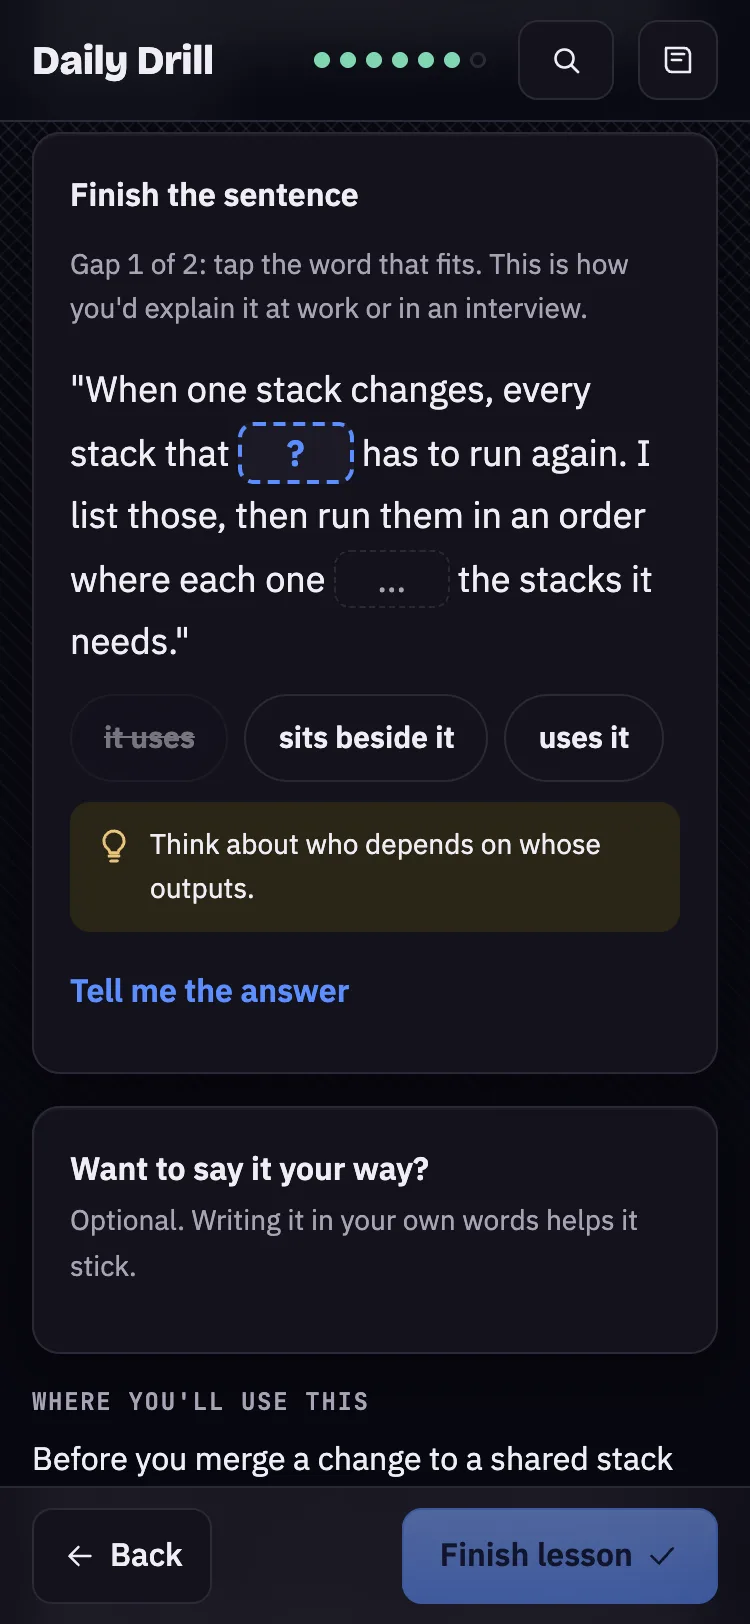
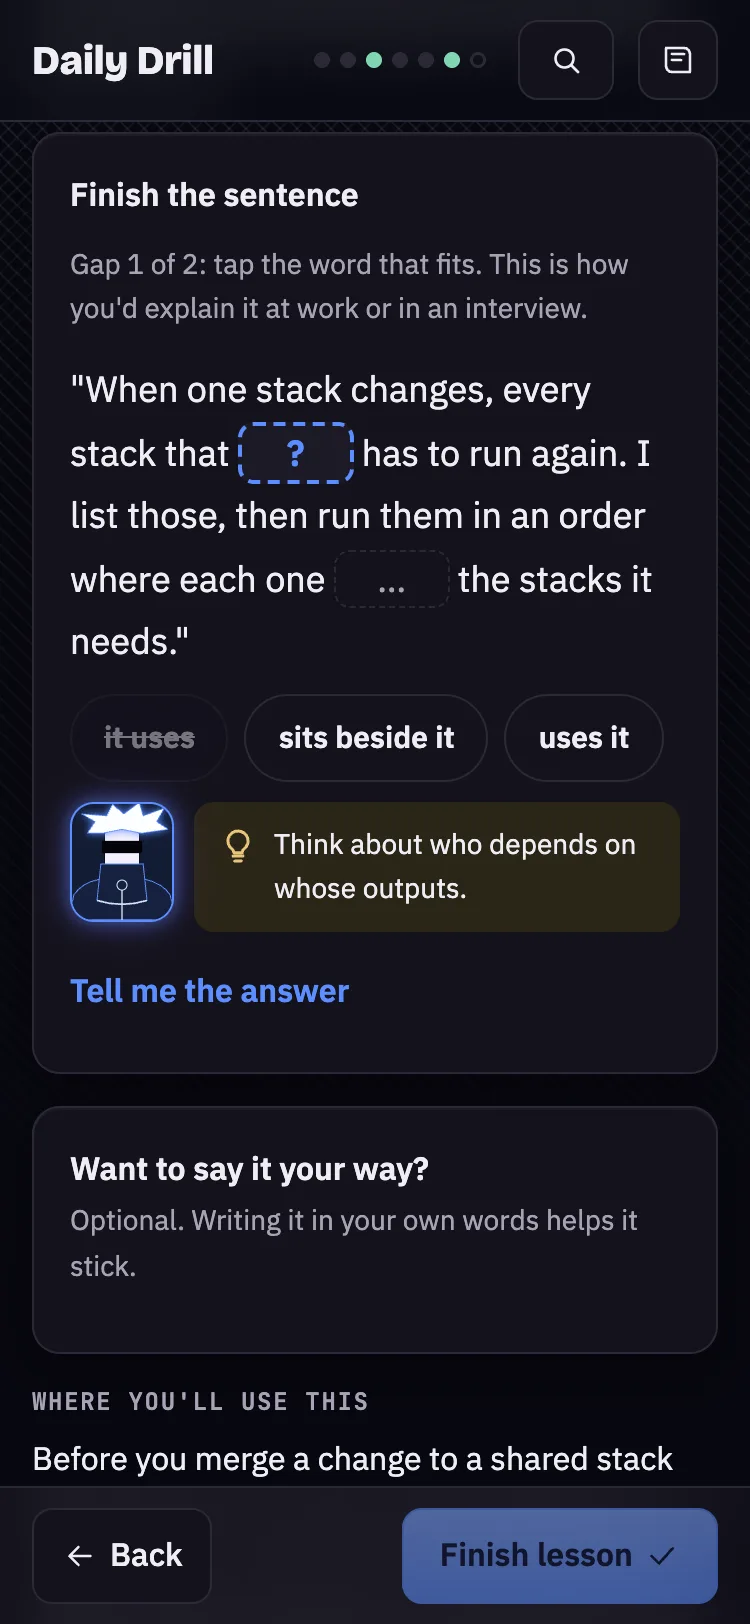
Hero beside the help, and the drift stack on the Platform track
The hero's close-up portrait sits beside the clue, verdict and answer boxes in
Check, Explain and Practice: blindfolded for a clue or a verdict, and for the
answer the blindfold is gone and his blue eyes glow. The words beside him stay
the lesson's own. The done screen shows him in full, in the phase's stance.

The Platform track gets its own spirit, the drift stack: three crooked boxes
like workspaces that no longer match their config, with loose cables for arms.
It weakens like the phase spirit (nine eyes, cracks, shards when finished).

Claude-Session: https://claude.ai/code/session_01FdRbmp2MgCHtQWVRmcySjV

Changed region(s): [[0.0613, 0.4618, 0.7973, 0.585], [0.5213, 0.0308, 0.5827, 0.0616], [0.4293, 0.0308, 0.4907, 0.0616]]

diff --git a/src/drill/content/page/horizon.js b/src/drill/content/page/horizon.js
@@ -93,7 +93,7 @@ function hzCurse(i, hp) {
 //   4 Ship      the hand thrust forward, the spiral released as a beam
 //   5 Monitor   standing easy, a quiet ring of protection round him
 // Everything he gives off grows with `power` (the share of lessons done); tapping the banner fires the flame.
-function hzSorcerer(x, g, tx, ty, power, pose = 2) {
+function hzSorcerer(x, g, tx, ty, power, pose = 2, unveiled = false) {
   const S = .82, X = v => (x + v * S).toFixed(1), Y = v => (g + v * S).toFixed(1), Z = v => (v * S).toFixed(1);
   const P = pts => "M" + pts.map(([a, b]) => `${X(a)},${Y(b)}`).join(" L") + "Z";
   const F = [15, 14, 15, 15, 19, 8][pose];
@@ -104,6 +104,9 @@ function hzSorcerer(x, g, tx, ty, power, pose = 2) {
   const head = `<ellipse class="skin" cx="${X(0)}" cy="${Y(-49.5)}" rx="${Z(3.8)}" ry="${Z(4.4)}"/>`
     + `<path class="smile" d="M${X(-1.4)},${Y(-46.6)} q${Z(1.4)},${Z(1.1)} ${Z(2.8)},${Z(-.2)}"/>`;
   const band = `<path class="band" d="${P([[-4.3, -52.6], [4.3, -52.6], [4.1, -48.8], [-4.1, -48.8]])}"/>`;
+  // with the blindfold pushed up: two blue eyes (h-eye, never "eye", which is the spirit's)
+  const bandUp = `<path class="band up" d="${P([[-4.6, -57.4], [4.4, -56.2], [4.4, -53.8], [-4.6, -55]])}"/>`;
+  const eyesOpen = [-1.7, 1.8].map(a => `<g class="h-eyes"><path class="h-eye" d="M${X(a - 1.45)},${Y(-50.5)} q${Z(1.45)},${Z(-1.5)} ${Z(2.9)},0 q${Z(-1.45)},${Z(1.3)} ${Z(-2.9)},0Z"/><circle class="h-iris" cx="${X(a)}" cy="${Y(-50.6)}" r="${Z(.82)}"/><circle class="h-glint" cx="${X(a - .3)}" cy="${Y(-50.95)}" r="${Z(.24)}"/></g>`).join("");
   const hair = `<path class="hair" d="${P([[-4.2, -52.4], [-6.8, -54.4], [-4.4, -55], [-7, -58], [-3.4, -57.2], [-3.8, -60.6], [-1, -58.2], [.4, -61.6], [1.6, -58.2], [4.2, -60.4], [3.8, -57], [7.2, -57.8], [4.8, -54.8], [7, -54], [4.2, -52.4]])}"/>`;
   const arm = pts => `<path class="sleeve" d="M${pts.map(([a, b]) => `${X(a)},${Y(b)}`).join(" L")}"/>`;
   const fist = (a, b, r = 1.8) => `<circle class="skin" cx="${X(a)}" cy="${Y(b)}" r="${Z(r)}"/>`;
@@ -141,7 +144,7 @@ function hzSorcerer(x, g, tx, ty, power, pose = 2) {
   const sparks = SP.slice(0, 4 + Math.round(6 * power)).map(([a, b], k) =>
     `<path class="spark${k % 3 ? "" : " v"}" d="M${X(a)},${Y(b - 1.4)} l${Z(.5)},${Z(1.4)} l${Z(-.5)},${Z(1.4)} l${Z(-.5)},${Z(-1.4)}Z" style="--d:${(k * .29).toFixed(2)}s"/>`).join("");
   const beam = `<path class="h-beam" d="M${hx},${hy} L${tx},${ty}"/>`;
-  return `<g class="hero" data-pose="${pose}">${orb}<g class="h-aura" opacity="${(.4 + .6 * power).toFixed(2)}">${tech}</g>${legs}${coat}${POSE[0]}${collar}${head}${band}${hair}<g class="h-aura" opacity="${(.5 + .5 * power).toFixed(2)}">${sparks}</g>${beam}</g>`;
+  return `<g class="hero" data-pose="${pose}">${orb}<g class="h-aura" opacity="${(.4 + .6 * power).toFixed(2)}">${tech}</g>${legs}${coat}${POSE[0]}${collar}${head}${unveiled ? eyesOpen : band}${hair}${unveiled ? bandUp : ""}<g class="h-aura" opacity="${(.5 + .5 * power).toFixed(2)}">${sparks}</g>${beam}</g>`;
 }
 const HZ_HERO_X = 30;
 const hzGround = (i, x) => { const a = HZ[i].a, k = Math.min(7, Math.floor(x / 50)), f = (x - k * 50) / 50; return a[k] + (a[k + 1] - a[k]) * f; };
@@ -163,9 +166,28 @@ function hzTrackScene(svg, hp) {
 }
 const HZ_TRACK_ENERGY = `<path class="st" d="M190 66 H226 V88 H262"/><path class="st hi" d="M226 66 V50 H270"/>` + hzEmb([[170, 50], [226, 60], [268, 80]]);
 const HZ_TRACK_AT = [320, 96, .5];
+// The track's own spirit, the drift stack: three crooked boxes piled up, like workspaces that no longer match
+// their config, with loose cables for arms. Same contract as hzSpirit: nine eyes that close as `hp` falls,
+// cracks below 80% and 45%.
+function hzDriftStack(cx, base, sc, hp) {
+  const S = v => (v * sc).toFixed(1), X = v => (cx + v * sc).toFixed(1), Y = v => (base + v * sc).toFixed(1);
+  const box = (x, y, w, h) => `<path class="body" d="M${X(x + 5)},${Y(y)} H${X(x + w - 5)} Q${X(x + w)},${Y(y)} ${X(x + w)},${Y(y + 5)} V${Y(y + h)} H${X(x)} V${Y(y + 5)} Q${X(x)},${Y(y)} ${X(x + 5)},${Y(y)}Z"/>`;
+  const body = box(-34, -22, 62, 22) + box(-24, -44, 56, 23) + box(-30, -64, 46, 21);
+  const arms = `<path class="limb" d="M${X(-34)},${Y(-14)} C${X(-50)},${Y(-22)} ${X(-46)},${Y(2)} ${X(-60)},${Y(-2)} M${X(32)},${Y(-36)} C${X(48)},${Y(-44)} ${X(52)},${Y(-14)} ${X(64)},${Y(-8)}"/><rect class="limb" x="${X(-66)}" y="${Y(-5)}" width="${S(6)}" height="${S(5)}"/><rect class="limb" x="${X(63)}" y="${Y(-11)}" width="${S(6)}" height="${S(5)}"/>`;
+  const mouth = `<path class="mouth" d="M${X(-22)},${Y(-9)} H${X(20)} L${X(16)},${Y(-4)} H${X(-18)}Z"/><path class="teeth" d="M${X(-18)},${Y(-8)}${Array.from({ length: 7 }, () => ` l${S(3)},${S(3)} l${S(3)},${S(-3)}`).join("")}"/>`;
+  const hatch = Array.from({ length: 6 }, (_, k) => `<path class="hatch" d="M${X(-20 + k * 9)},${Y(-23)} l${S(-5)},${S(-9)}"/>`).join("");
+  const EYES = [[-14, -54, 5], [4, -56, 3], [-24, -57, 1.6], [14, -34, 4], [-10, -34, 2.6], [24, -30, 1.8], [-24, -16, 2.2], [20, -16, 2], [0, -16, 1.6]];
+  const open = Math.max(1, Math.round(EYES.length * hp));
+  const eyes = EYES.map(([x, y, r], k) => k < open
+    ? `<circle class="eyew" cx="${X(x)}" cy="${Y(y)}" r="${S(r)}"/><circle class="eye" cx="${X(x + r * .2)}" cy="${Y(y)}" r="${S(r * .45)}" style="--d:${(k * .41).toFixed(2)}s"/>`
+    : `<path class="limb" d="M${X(x - r)},${Y(y)} h${S(r * 2)}"/>`).join("");
+  const cracks = (hp < .8 ? `<path class="crack" d="M${X(-6)},${Y(-64)} l${S(4)},${S(8)} ${S(-5)},${S(7)} ${S(5)},${S(8)}"/>` : "")
+    + (hp < .45 ? `<path class="crack" d="M${X(20)},${Y(-44)} l${S(-6)},${S(8)} ${S(5)},${S(6)} ${S(-6)},${S(10)}"/><path class="crack" d="M${X(-28)},${Y(-20)} l${S(8)},${S(-4)} ${S(4)},${S(6)}"/>` : "");
+  return `<g class="wob">${arms}${body}${hatch}${mouth}${eyes}${cracks}</g><circle class="hit" cx="${cx}" cy="${Y(-32)}" r="${S(36)}" style="fill:var(--fx-core)"/>`;
+}
 function hzTrackCurse(hp) {
   const [x, y, sc] = HZ_TRACK_AT;
-  const foe = hp <= 0 ? hzShards(x, y - 30) + `<ellipse cx="${x}" cy="${y + 2}" rx="18" ry="2.5" class="stain"/>` : hzSpirit(x, y, sc * (.75 + .25 * hp), hp);
+  const foe = hp <= 0 ? hzShards(x, y - 30) + `<ellipse cx="${x}" cy="${y + 2}" rx="18" ry="2.5" class="stain"/>` : hzDriftStack(x, y, sc * (.75 + .25 * hp), hp);
   return foe + hzSorcerer(HZ_HERO_X, 96, x, y - 30 * sc, 1 - hp);
 }
 
@@ -193,3 +215,24 @@ function horizonDraw(from) {
   hzScene(base, from, i, 0); hzRaf = requestAnimationFrame(step);
 }
 function horizonStrike(band) { const cu = band.querySelector("svg.cu"); cu.classList.remove("struck"); void cu.getBoundingClientRect(); cu.classList.add("struck"); }
+
+// ---------- the hero beside the help (outside the banner)
+// His portrait sits beside the boxes that already exist: the clue (blindfolded), the verdict, and the answer
+// (blindfold up, his eyes showing). He says nothing of his own: the box beside him keeps the lesson's words.
+// The portrait is drawn on its own, close up: a tall dark collar over the chin with a round button, a narrow
+// face, angular white hair. A blindfold for a clue or a verdict; for the answer it's gone and his eyes glow.
+function hzFace(mood) {
+  const P = pts => "M" + pts.map(([x, y]) => `${x},${y}`).join(" L") + "Z";
+  const coat = `<path class="coat" d="M-2,60 L1,47 Q5,41 14,39 L38,39 Q47,41 51,47 L54,60Z"/>`;
+  const face = `<path class="skin" d="M17,33 V16 Q17,11 22,11 H30 Q35,11 35,16 V33Z"/>`;
+  const collar = `<path class="coat" d="M13,50 L15,31 L37,31 L39,50 Q26,54 13,50Z"/><path class="seam" d="M13,50 Q26,54 39,50 M26,44.6 V60"/><circle class="btn" cx="26" cy="42" r="2.6"/>`;
+  const hair = `<path class="hair" d="${P([[8, 15], [12, 9], [5, 5], [18, 6], [21, 0], [27, 5], [35, -1], [37, 6], [48, 2], [44, 9], [50, 13], [36, 15], [26, 13], [16, 15]])}"/>`;
+  const eyes = mood === "answer"
+    ? [21.9, 30.1].map(x => `<g class="h-eyes"><circle class="h-eye" cx="${x}" cy="22" r="3"/><circle class="h-glint" cx="${x}" cy="22" r="1.25"/></g>`).join("")
+    : `<path class="band" d="M15.5,19 H36.5 V25.4 H15.5Z"/>`;
+  const sparks = mood === "right" ? [[45, 22], [7, 30]].map(([x, y], k) => `<path class="spark" d="M${x},${y - 3} l1,3 l-1,3 l-1,-3Z" style="--d:${k * .4}s"/>`).join("") : "";
+  return `<span class="horizon hface ${mood}" aria-hidden="true"><svg class="cu" viewBox="0 0 52 60">${coat}${face}${eyes}${collar}${hair}${sparks}</svg></span>`;
+}
+const hzCoach = (mood, html) => `<div class="hcoach">${hzFace(mood)}${html}</div>`;
+// On the done screen: the whole figure, in the phase's stance (the Build sign on the track), as strong as the phase is done.
+const hzFigure = (pose, power) => `<span class="horizon hfig" aria-hidden="true"><svg class="cu" viewBox="4 40 54 64">${hzSorcerer(30, 100, 140, 70, power, pose)}</svg></span>`;

diff --git a/src/drill/content/page.html b/src/drill/content/page.html
@@ -2188,6 +2188,7 @@ function showDone(id, after, fresh) {
     ${promo}
     ${res ? resultHtml(res) : ""}
     <section class="newstk"><span class="eyebrow">New sticker · ${doneN} of ${ids.length} in ${esc(inPh)}</span><span class="stk done">${stickerSvg(id, "done", 24)}</span><h2>${esc(L.title)}</h2><p>${esc(modOf[id].title)}, in the ${esc(ph.name)}${trackOf[id] ? "" : " phase"}. Every sticker in ${esc(ph.name)} has this shape.</p></section>
+    <section class="card hdone">${hzFigure(trackOf[id] ? 2 : Math.max(0, PHASES.indexOf(ph)), doneN / ids.length)}<div><span class="eyebrow">${esc(ph.name)}</span><p>${doneN === ids.length ? "The spirit is gone." : "The spirit on the hill is a little weaker."}</p></div></section>
     <section class="card"><span class="eyebrow">In this lesson</span><ul class="recap">${recap}</ul></section>
     <div class="keyidea">${ic("quote")}<div>${(s.said || "").trim() ? `<b>You said</b><p>${esc(s.said.trim())}</p><b class="ours">Ours</b>` : "<b>Say it like this</b>"}<p>${md(L.angle[2])}</p></div></div>
     ${next}`;
@@ -2271,11 +2272,11 @@ function checkPane() {
     const cls = "opt" + (solved && k === ans ? " right" : tried.includes(k) ? " wrong" : "");
     return `<button class="${cls}" data-opt="${k}"${off ? " disabled" : ""}><span class="k">${letter(k)}</span><span>${md(opts[k])}</span></button>`;
   }).join("");
-  const verdict = solved ? `<div class="verdict ok">${ic("check")}<div><b>${help === 2 ? `The answer is ${letter(ans)}.` : "Right."}</b> ${md(why)}</div></div>`
-    : tried.length ? `<div class="verdict no">${ic("x")}<div><b>Not quite.</b> Try another one${help || !clue ? "" : ", or ask for a clue"}.</div></div>` : "";
+  const verdict = solved ? hzCoach(help === 2 ? "answer" : "right", `<div class="verdict ok">${ic("check")}<div><b>${help === 2 ? `The answer is ${letter(ans)}.` : "Right."}</b> ${md(why)}</div></div>`)
+    : tried.length ? hzCoach("wrong", `<div class="verdict no">${ic("x")}<div><b>Not quite.</b> Try another one${help || !clue ? "" : ", or ask for a clue"}.</div></div>`) : "";
   const helpHtml = solved ? "" : help === 0 && clue ? `<button class="linkbtn" data-chk-help>Give me a clue</button>`
     : help === 0 ? `<button class="linkbtn" data-chk-help>Tell me the answer</button>`
-    : `<p class="clzclue">${ic("bulb")}<span>${md(clue)}</span></p><button class="linkbtn" data-chk-help>Tell me the answer</button>`;
+    : hzCoach("clue", `<p class="clzclue">${ic("bulb")}<span>${md(clue)}</span></p>`) + `<button class="linkbtn" data-chk-help>Tell me the answer</button>`;
   const head = n > 1 ? `<div class="shead chkhead"><span class="scount">Question ${i + 1} of ${n}</span><span class="qf-dots" aria-hidden="true">${qs.map((_, j) => `<i class="${st.solved[j] ? "d" : j === i ? "n" : ""}"></i>`).join("")}</span></div>` : "";
   const next = solved && i < n - 1 ? `<button class="btn primary chknext" data-chk-next>Next question${ic("arrowr")}</button>` : "";
   const again = checkDone(id) ? `<button class="linkbtn" data-retry>Try the check again</button>` : "";
@@ -2337,7 +2338,7 @@ function clozeHtml(id) {
     return `<button class="clzchip${off ? " no" : ""}${right ? " shown" : ""}" data-clz="${esc(w)}"${off ? ' aria-disabled="true"' : ""}>${esc(w)}</button>`;
   }).join("");
   const help = CLZ.help === 0 ? `<button class="linkbtn" data-clz-help>Give me a clue</button>`
-    : `<p class="clzclue">${ic("bulb")}<span>${esc(g.clue)}</span></p>${CLZ.help === 1 ? `<button class="linkbtn" data-clz-help>Tell me the answer</button>` : ""}`;
+    : hzCoach(CLZ.help === 2 ? "answer" : "clue", `<p class="clzclue">${ic("bulb")}<span>${esc(g.clue)}</span></p>`) + `${CLZ.help === 1 ? `<button class="linkbtn" data-clz-help>Tell me the answer</button>` : ""}`;
   return `<section class="card cloze"><b>Finish the sentence</b><span class="meta">Gap ${n + 1} of ${gaps.length}: tap the word that fits. This is how you'd explain it at work or in an interview.</span>
     <p class="clz">${line}</p>
     <div class="clzchips" role="group" aria-label="Words for gap ${n + 1}">${chips}</div>

diff --git a/src/drill/content/page/practice.js b/src/drill/content/page/practice.js
@@ -150,22 +150,22 @@ function qfRender() {
   const a = asks[QF.i], solved = QF.solved === QF.i, lastWrong = QF.tried.length ? QF.tried[QF.tried.length - 1] : null;
   if (a.kind === "fix") {
     const fixHelp = solved ? `<button class="btn primary qf-next" data-qf-next>${QF.i + 1 < n ? "Next question" : "See how you did"}${ic("arrowr")}</button>`
-      : `<button class="btn primary qf-next" data-qf-check>Check YAML</button>${QF.help === 0 ? `<button class="linkbtn" data-qf-help>Give me a clue</button>` : `<p class="clzclue">${ic("bulb")}<span>${md(a.clue)}</span></p><button class="linkbtn" data-qf-help>Show a fixed version</button>`}`;
+      : `<button class="btn primary qf-next" data-qf-check>Check YAML</button>${QF.help === 0 ? `<button class="linkbtn" data-qf-help>Give me a clue</button>` : hzCoach("clue", `<p class="clzclue">${ic("bulb")}<span>${md(a.clue)}</span></p>`) + `<button class="linkbtn" data-qf-help>Show a fixed version</button>`}`;
     box.innerHTML = `<div class="shead"><h2>Practice</h2><span class="scount">Question ${QF.i + 1} of ${n}</span>${dots(QF.i)}</div>
       ${QF.i === 0 ? `<p class="meta">${md(pr.intro)}</p>` : ""}
       <p class="q">${md(a.question)}</p>${qfFixHtml(a, solved)}
-      <div aria-live="polite">${solved ? `<div class="snote ok"><b>${ic("check")} ${QF.help === 2 ? "A fixed version." : "The check passes."}</b> ${md(a.why)}</div>` : ""}</div>
+      <div aria-live="polite">${solved ? hzCoach(QF.help === 2 ? "answer" : "right", `<div class="snote ok"><b>${ic("check")} ${QF.help === 2 ? "A fixed version." : "The check passes."}</b> ${md(a.why)}</div>`) : ""}</div>
       <div class="clzhelp">${fixHelp}</div>
       <div class="sfoot"><button class="linkbtn" data-qf-mode="code">${ic("code")}Rather write it in Python?</button></div>`;
     return;
   }
   const order = checkOrder(QF.p.id + ":" + QF.i, a.options.length);  // shuffled like the Check step, so the right one isn't always in the same place
   const opts = a.pick ? "" : `<div class="opts">${order.map((k, at) => { const o = a.options[k]; return `<button class="opt${solved && k === a.answer ? " right" : QF.tried.includes(k) ? " wrong" : ""}" data-qf="${k}"${solved || QF.tried.includes(k) ? " disabled" : ""}><span class="k">${"ABCDEF"[at]}</span><span>${md(o)}</span></button>`; }).join("")}</div>`;
-  const note = solved ? `<div class="snote ok"><b>${ic("check")} ${QF.help === 2 ? "The answer." : "Right."}</b> ${md(a.why)}</div>`
-    : lastWrong != null ? `<div class="snote no"><b>Not quite.</b> ${md((a.wrong && a.wrong[lastWrong]) || "Look at the evidence again.")}</div>` : "";
+  const note = solved ? hzCoach(QF.help === 2 ? "answer" : "right", `<div class="snote ok"><b>${ic("check")} ${QF.help === 2 ? "The answer." : "Right."}</b> ${md(a.why)}</div>`)
+    : lastWrong != null ? hzCoach("wrong", `<div class="snote no"><b>Not quite.</b> ${md((a.wrong && a.wrong[lastWrong]) || "Look at the evidence again.")}</div>`) : "";
   const help = solved ? `<button class="btn primary qf-next" data-qf-next>${QF.i + 1 < n ? "Next question" : "See how you did"}${ic("arrowr")}</button>`
     : QF.help === 0 ? `<button class="linkbtn" data-qf-help>Give me a clue</button>`
-    : `<p class="clzclue">${ic("bulb")}<span>${md(a.clue)}</span></p><button class="linkbtn" data-qf-help>Tell me the answer</button>`;
+    : hzCoach("clue", `<p class="clzclue">${ic("bulb")}<span>${md(a.clue)}</span></p>`) + `<button class="linkbtn" data-qf-help>Tell me the answer</button>`;
   box.innerHTML = `<div class="shead"><h2>Practice</h2><span class="scount">Question ${QF.i + 1} of ${n}</span>${dots(QF.i)}</div>
     ${QF.i === 0 ? `<p class="meta">${md(pr.intro)}</p>` : ""}
     ${qfEvidence(a.evidence, a, solved)}

diff --git a/src/drill/content/page/horizon.css b/src/drill/content/page/horizon.css
@@ -84,3 +84,25 @@
 @keyframes hz-cu-breathe { from { transform: scale(.96); opacity: .5; } to { transform: scale(1.04); opacity: 1; } }
 @keyframes hz-cu-pulse { from { transform: scale(.85); } to { transform: scale(1.12); } }
 @keyframes hz-cu-beam { 0% { opacity: 1; stroke-width: 3.4; } 100% { opacity: 0; stroke-width: .5; } }
+/* the hero beside the help (hzFace, hzCoach, hzFigure): a close-up portrait by the clue and the verdict,
+   and the whole figure on the done screen. Blindfold up: his blue eyes open, glowing in Dusk */
+.hcoach { display: grid; grid-template-columns: 52px minmax(0, 1fr); gap: 10px; align-items: start; }
+.horizon .cu .seam { fill: none; stroke: color-mix(in srgb, var(--fx-core) 45%, white); stroke-width: .9; opacity: .8; }
+.hcoach > :last-child { margin: 0; min-width: 0; }
+.horizon.hface, .horizon.hfig { flex: none; aspect-ratio: auto; max-height: none; margin: 0; cursor: default; }
+.horizon.hface { width: 52px; height: 60px; overflow: hidden; border-radius: 12px; border: 1.5px solid var(--fx-glow); background: color-mix(in srgb, var(--fx-veil) 82%, var(--fx-glow)); box-shadow: var(--glow-current); }
+.horizon.hfig { width: 96px; height: 116px; border: 0; background: none; overflow: visible; }
+.horizon.hface svg.cu, .horizon.hfig svg.cu { position: static; cursor: default; overflow: visible; }
+.horizon .cu .h-eye { fill: color-mix(in srgb, var(--fx-glow) 40%, white); }
+.horizon .cu .h-iris { fill: var(--fx-glow); stroke: var(--fx-core); stroke-width: .2; }
+.horizon .cu .h-glint { fill: white; opacity: .9; }
+:root[data-theme="dusk"] .horizon .cu .h-eyes { filter: drop-shadow(0 0 1.5px var(--fx-glow)) drop-shadow(0 0 4px var(--fx-core)); }
+.hface.answer .h-eyes { animation: hz-open var(--dur-moment) var(--ease-out) both; transform-box: fill-box; transform-origin: center; }
+@keyframes hz-open { 0%, 35% { transform: scaleY(.1); opacity: .4; } 100% { transform: none; opacity: 1; } }
+.hdone { display: grid; grid-template-columns: 96px minmax(0, 1fr); gap: 8px 12px; align-items: end; }
+.hdone p { margin: 4px 0 0; }
+.clzhelp > .hcoach { justify-self: stretch; }
+.hface .coat { fill: var(--fx-veil); stroke-width: 1.3; }
+.hface .hair { stroke-width: 1.3; }
+.hface .btn { stroke-width: 1.1; }
+.hface .skin { stroke-width: .6; }

diff --git a/tests/test_content.py b/tests/test_content.py
@@ -273,6 +273,7 @@ console.log(JSON.stringify({
   html: horizonHtml(2, 3, 4),
   hero: [hzHero(0, 1).match(/r="([\\d.]+)" opacity/)[1], hzHero(0, .2).match(/r="([\\d.]+)" opacity/)[1]].map(Number),
   track: [hzTrackCurse(1).includes('class="eye"'), hzTrackCurse(0).includes('class="bit"'), hzTrackCurse(.5).includes('class="band"')],
+  face: [hzFace("answer").includes('class="h-eye"'), hzFace("clue").includes('class="h-eye"'), (hzCoach("answer", "x").match(/class="eye"/g) || []).length, hzTrackCurse(1).includes('class="body" d="M')],
 }));"""
     (tmp_path / "hz.js").write_text(probe)
     out = json.loads(subprocess.run([node, str(tmp_path / "hz.js")], capture_output=True, text=True, check=True).stdout)
@@ -283,6 +284,7 @@ console.log(JSON.stringify({
     assert 'aria-hidden="true"' in out["html"] and 'data-hp="0.250"' in out["html"]
     assert out["hero"][1] > out["hero"][0], "the sorcerer's flame grows as lessons get done"
     assert out["track"] == [True, True, True], "the platform track has its own banner, spirit and sorcerer"
+    assert out["face"] == [True, False, 0, True], "the blindfold comes off only for the answer; his eyes never count as the spirit's"
     assert '${horizonHtml("t", d, ids.length)}' in page
 
 

diff --git a/docs/FRONTEND.md b/docs/FRONTEND.md
@@ -82,7 +82,7 @@ Find a section by searching for its marker, `// ---------- <name> ----------`:
 | `walkthrough: a tool's screens, redrawn with numbered callouts` | `walkHtml`, `SL_VIEW`: Spacelift run screens drawn from lesson data (`screen(...)`) **In `page/walkthrough.js`** (styles: `page/walkthrough.css`) |
 | `picture cards: a lesson's Learn step as short cards` | `cardsLearnPane`, `PC_PIC` (one function per kind of picture), drawn from lesson data (`card(...)`); `learnPane` hands over when a lesson has `cards` **In `page/cards.js`** (styles: `page/cards.css`) |
 | `your result` | The result card on the done screen: the marks each step leaves the first time through (`firstMarks`, `finishMarks`, `resultOf`), the picture Share result copies (`resultPng`, `sharePicture`) and Copy as text (`shareText`). The Notebook's Results tab (`renderResults`). **In `page/share.js`** (styles: `page/share.css`) |
-| `the phase banner` | The strip of line art at the top of Home's phase room: a horizon per phase (`HZ`, `HZ_MARKS`, `hzScene`), the energy layer (`HZ_ENERGY`) and the cursed spirit that weakens as the phase's lessons get done (`hzSpirit`, `hzCurse`; finishing the phase breaks it up), and a white-haired, blindfolded hero with a stance and technique per phase (scan, thread, spiral, measuring arcs, beam, halo) that grows with progress (`hzSorcerer(..., pose)`, `hzHero`). The platform track has its own teal banner (`hzTrackScene`, `hzTrackCurse`: an octagon ward drawn a little more with each lesson). `horizonHtml` in the room, `horizonDraw` after each Home render and, with the phase you came from, to morph the hills; tapping it strikes the spirit (`horizonStrike`). Decorative only (`aria-hidden`). **In `page/horizon.js`** (styles: `page/horizon.css`) |
+| `the phase banner` | The strip of line art at the top of Home's phase room: a horizon per phase (`HZ`, `HZ_MARKS`, `hzScene`), the energy layer (`HZ_ENERGY`) and the cursed spirit that weakens as the phase's lessons get done (`hzSpirit`, `hzCurse`; finishing the phase breaks it up), and a white-haired, blindfolded hero with a stance and technique per phase (scan, thread, spiral, measuring arcs, beam, halo) that grows with progress (`hzSorcerer(..., pose)`, `hzHero`). The platform track has its own teal banner (`hzTrackScene`, `hzTrackCurse`: an octagon ward drawn a little more with each lesson) and its own spirit, the drift stack (`hzDriftStack`). Outside the banner the hero sits beside the help: `hzCoach(mood, html)` puts his round portrait (`hzFace`) by a clue, a verdict or an answer in Check, Explain and Practice (blindfolded for a clue, blindfold up with his blue eyes for the answer), and `hzFigure` draws him on the done screen. `horizonHtml` in the room, `horizonDraw` after each Home render and, with the phase you came from, to morph the hills; tapping it strikes the spirit (`horizonStrike`). Decorative only (`aria-hidden`). **In `page/horizon.js`** (styles: `page/horizon.css`) |
 | `trust marks` | The ember after trust phrases in Learn and its tooltip (`withTrust`, `openTrust`, `growPop`); notes in `content/trust.py` **In `page/trust.js`** (styles: `page/trust.css`) |
 | `lesson diagrams` | One picture in Learn, drawn from lesson data: `diagramHtml` and one `dg<Kind>` function per kind (flow, tree, graph, table, chart, pair); step-throughs, one-shot play, and the live picture in Build (`LIVE`, `livePic`). Data in `content/diagrams.py` **In `page/diagrams.js`** (styles: `page/diagrams.css`) |
 | `sticker callbacks` | An earlier lesson's sticker after the phrase that uses its idea, and its card (`cbMarkHtml`, `cbPopHtml`, `openCb`); `withTrust` places both. The Look again card after Learn (`againHtml`, `againStep`, saved as `lp(id).again`). Data in `content/callbacks.py` **In `page/callbacks.js`** (styles: `page/callbacks.css`) |

diff --git a/docs/DESIGN_SYSTEM.md b/docs/DESIGN_SYSTEM.md
@@ -71,7 +71,7 @@ them before making a new one; a new one gets a row here.
 | Stepper | `.stepbtn` | Top of a lesson | Learn, Check, Build, Explain; a lesson whose Build step is practice questions says Practice (`stepNames`); the current one carries `accent` |
 | Bottom bar | `#foot` (rendered by `renderFoot`) | Lessons | One primary on the right, a quiet Back on the left |
 | Phase tabs and room | `.phasebox`, `.rail.phtabs`, `.book.room`, `.titlecard`, `.paper0`–`.paper5` | Home | Violet `--path*`; the room's paper matches its phase shape |
-| Phase banner | `.horizon` (`page/horizon.css`) | Home, top of the phase room | Line art in `--path`; energy in `--fx-glow`/`--fx-core`; the spirit in `--fx-red` on `--fx-veil`; the current phase's landmark in `--accent`; the sorcerer in `--fx-veil` mixed with `--fx-glow`, his technique per phase in `--fx-glow`/`--fx-mix`/`--fx-core` (and `--fx-red` in the Build spiral). Line colour is `--hz-ink` (`--path`, or `--track` in the track's room). Original line art, decorative (`aria-hidden`) |
+| Phase banner | `.horizon` (`page/horizon.css`) | Home, top of the phase room | Line art in `--path`; energy in `--fx-glow`/`--fx-core`; the spirit in `--fx-red` on `--fx-veil`; the current phase's landmark in `--accent`; the sorcerer in `--fx-veil` mixed with `--fx-glow`, his technique per phase in `--fx-glow`/`--fx-mix`/`--fx-core` (and `--fx-red` in the Build spiral). Line colour is `--hz-ink` (`--path`, or `--track` in the track's room). Original line art, decorative (`aria-hidden`). The track's spirit is the drift stack. The hero's portrait (`.hcoach`, `.hface`) sits beside the clue, verdict and answer boxes and never says words of his own; his eyes when unveiled are `--fx-glow` ringed in `--fx-core` |
 | Track room | `.book.room.track`, `.paper6`, `.lb-shape.track` | Home, track lessons | Teal `--track*`; inside it teal stands in for `accent` |
 | Sticker | `.stk` (`.done`, `.now`, `.next`, `.ahead`, `.soon`), `.stickers`, `.ministk` | Home, done screen | Shape from `phShape`; `soon` is a faded, unopenable placeholder |
 | Phase badge | `.bdg` (`.now`, `.done`), `badgeSvg()` | Tabs, title cards | The glow (`#aura`, `#aura-track`) is only on what's current |

diff --git a/docs/screens/README.md b/docs/screens/README.md
@@ -78,7 +78,8 @@ It never moves the path's next lesson.
 
 **The banner.** The same battle in teal: a stack of workspaces, a pipeline, and an octagon ward
 (the track's shape) that closes a little more with every lesson until the spirit is sealed and
-broken. `hzTrackScene()` in `page/horizon.js`; the teal comes from `--hz-ink: var(--track)`.
+broken. The track has its own spirit, the drift stack: three crooked boxes like workspaces that no
+longer match their config, with loose cables for arms (`hzDriftStack()`). `hzTrackScene()` in `page/horizon.js`; the teal comes from `--hz-ink: var(--track)`.
 
 **What draws it.** `trackPage()`, `TRACKS`, `trackOf`, `.book.room.track`, `.paper6`, `.stk.soon`;
 teal comes from the `--track*` tokens.
@@ -167,6 +168,11 @@ written with `ask(...)`: three options and a clue.
 ## A lesson: Check
 
 ![The Check step after answering](lesson-check-phone-dusk.webp)
+
+The hero's round portrait sits beside the clue and the verdict (`hzCoach()` in `page/horizon.js`):
+blindfolded for a clue, and with the blindfold pushed up and his blue eyes open when he gives the answer.
+The words stay the lesson's own. The same portrait shows in Explain and Practice, and the done screen has
+him in full, in the phase's stance.
 
 **What the learner sees.** Up to three multiple-choice questions, one at a time ("Question 1 of
 3"). A wrong pick is crossed out and they try again; help is a clue, then the answer. Once a
